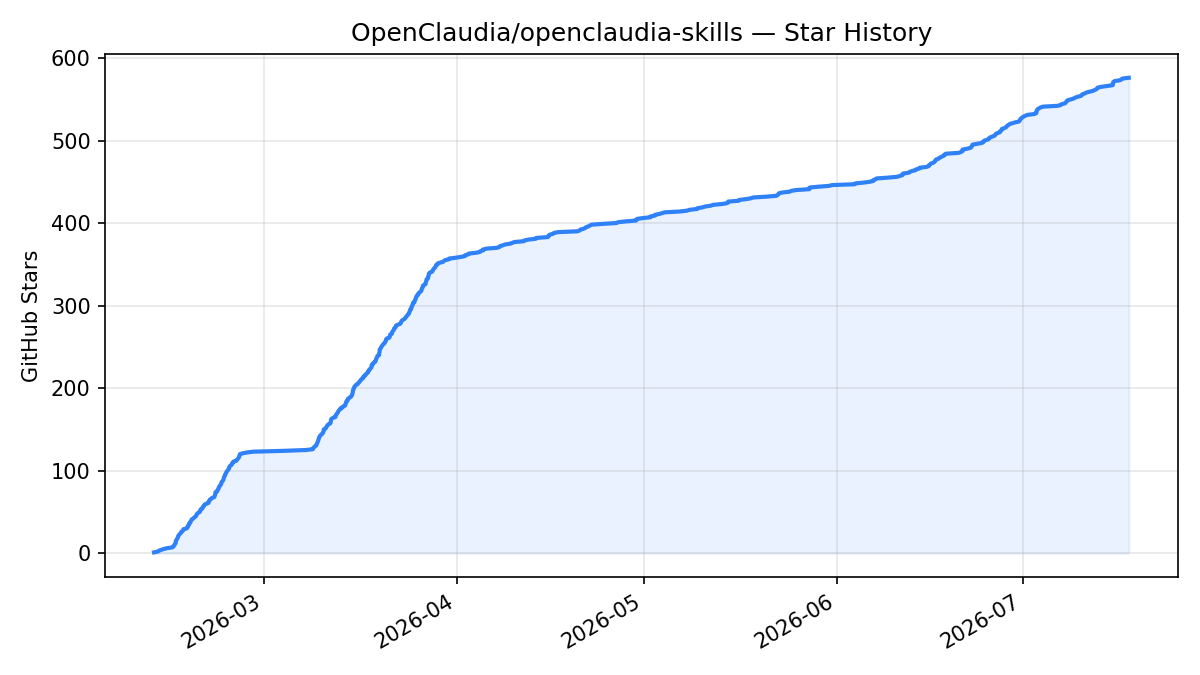
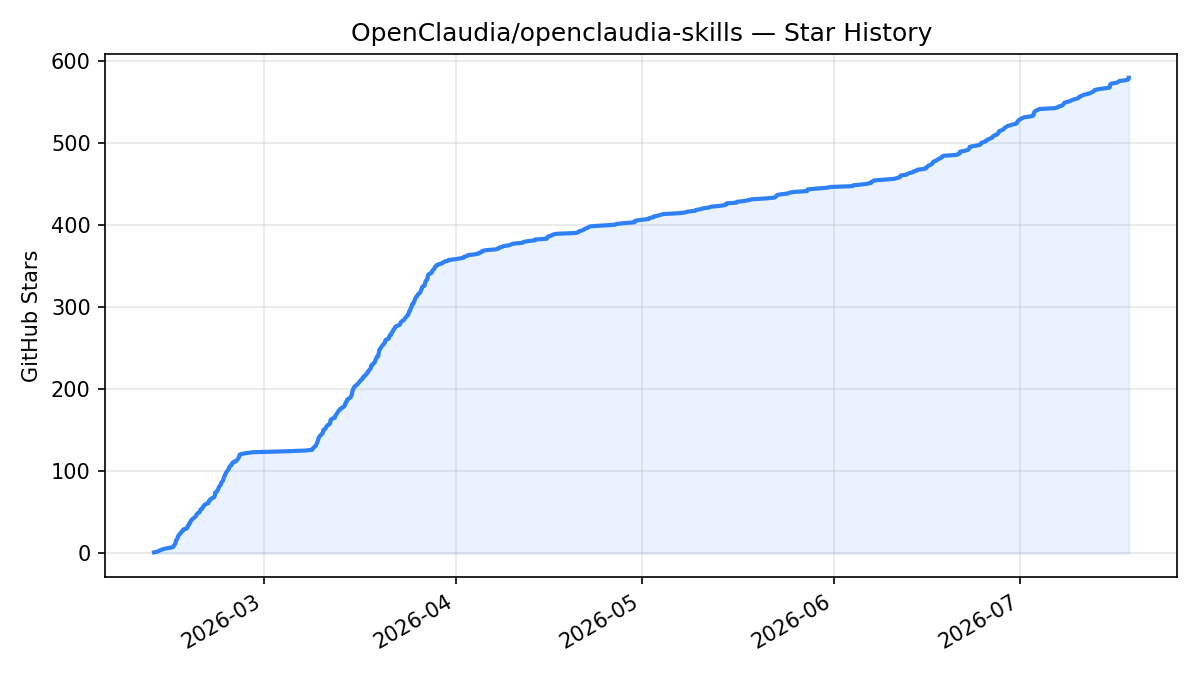
readme: refresh star chart (579 stars)

diff --git a/README.md b/README.md
@@ -326,7 +326,7 @@ MIT — see [LICENSE](LICENSE)
 
 ![Star History Chart](assets/star-history.png)
 
-<sub>Updated 2026-07-17. GitHub [restricted the stargazers API](https://github.blog/changelog/2026-06-30-upcoming-access-restrictions-to-public-api-endpoints-and-ui-views/) in June 2026, so the live star-history.com badge no longer renders; this chart is generated from the repo's own star data.</sub>
+<sub>Updated 2026-07-18. GitHub [restricted the stargazers API](https://github.blog/changelog/2026-06-30-upcoming-access-restrictions-to-public-api-endpoints-and-ui-views/) in June 2026, so the live star-history.com badge no longer renders; this chart is generated from the repo's own star data.</sub>
 
 ---
 